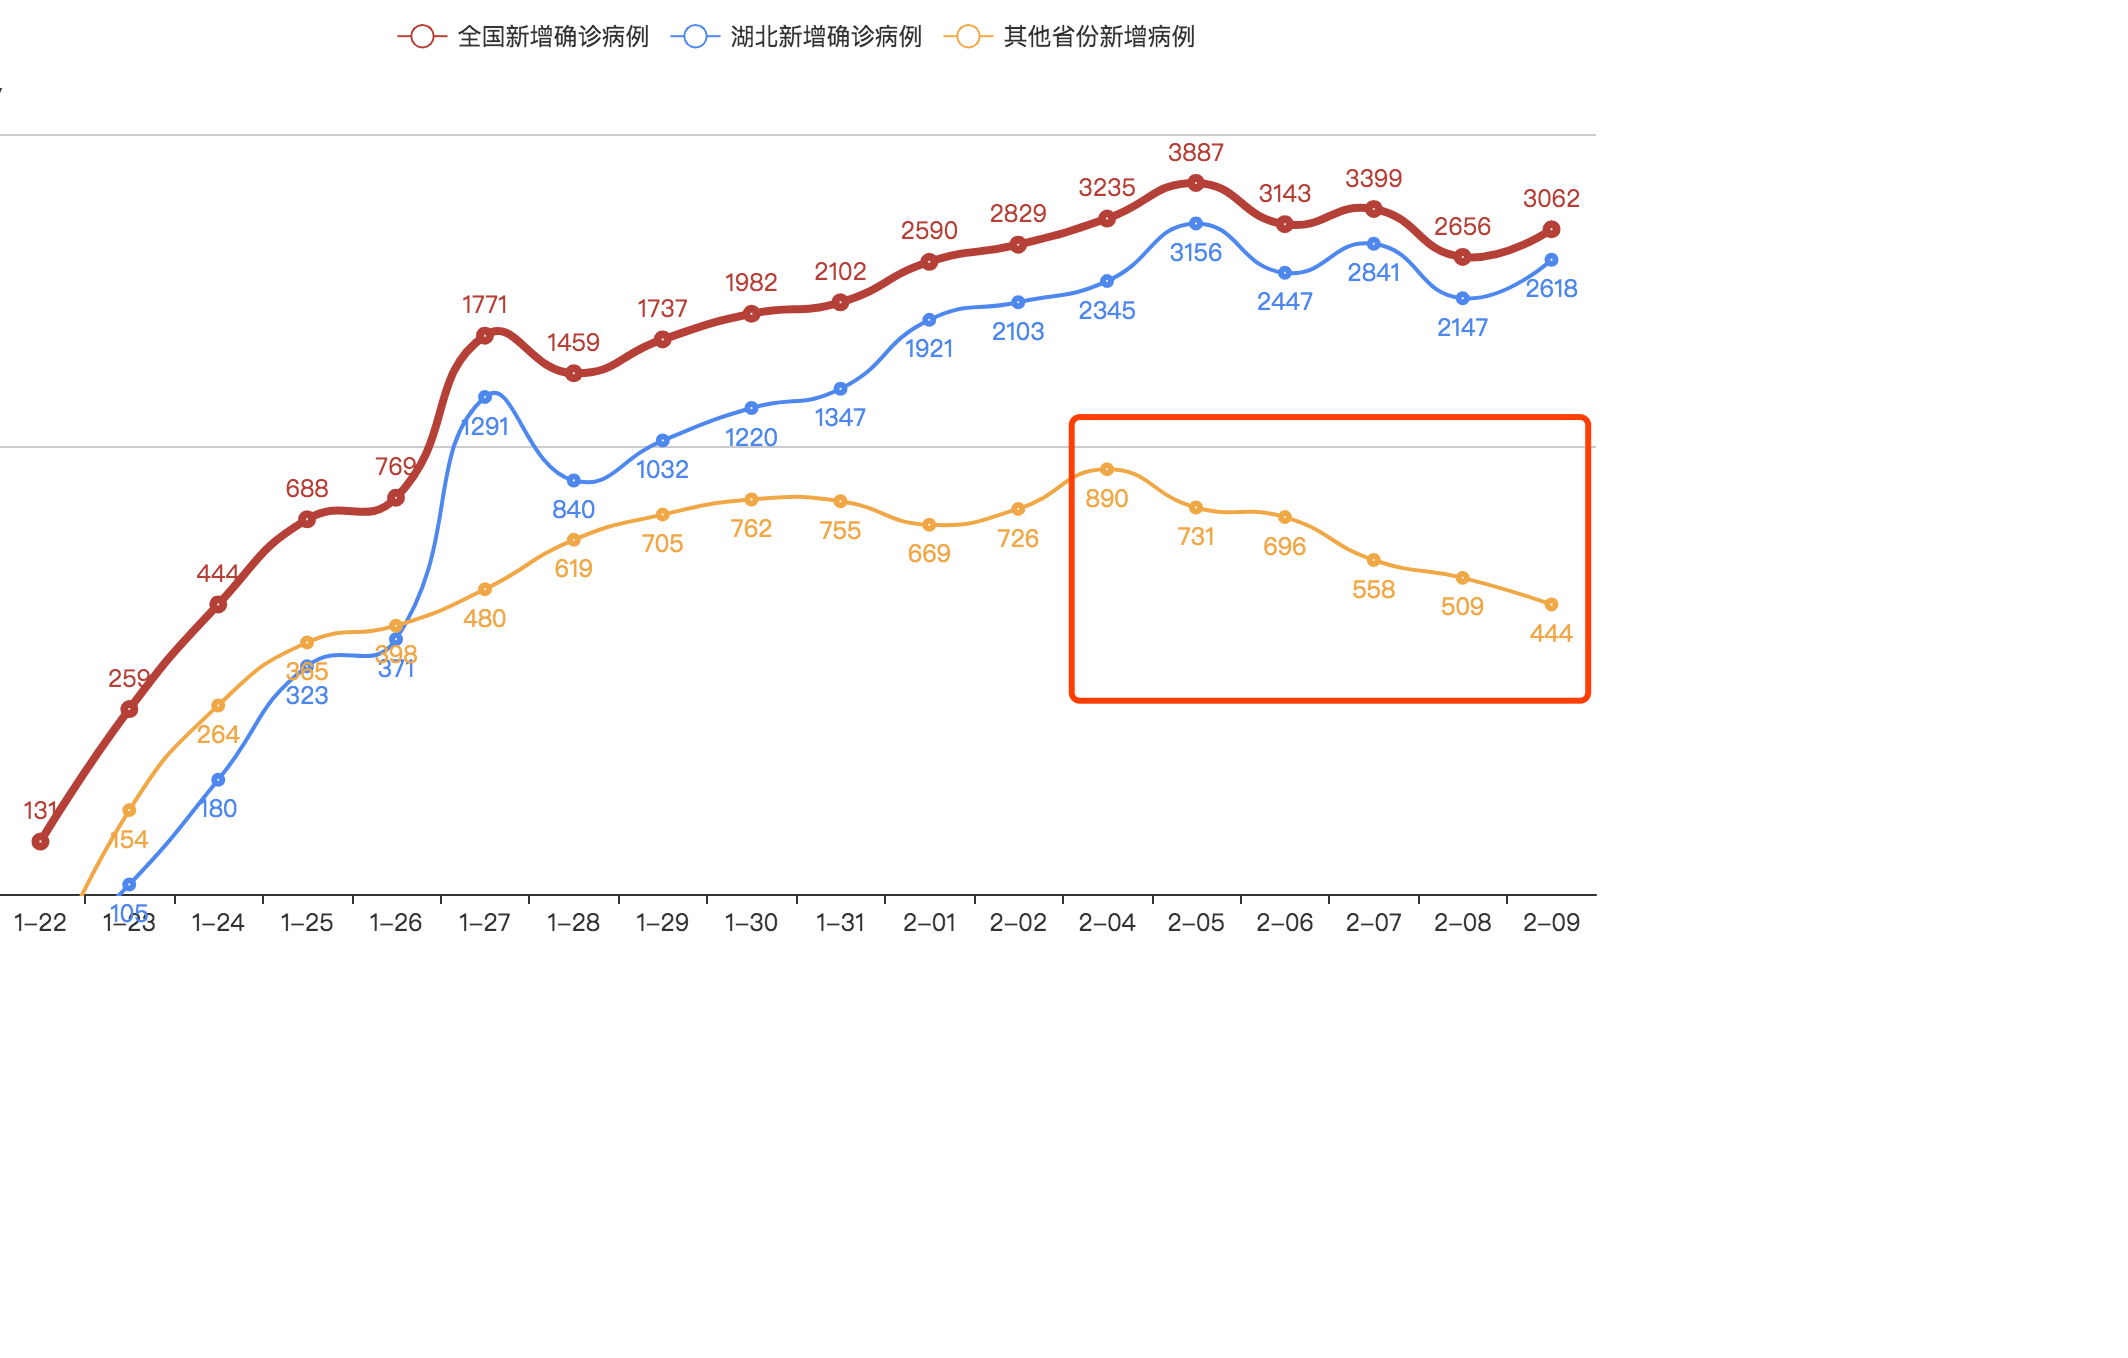
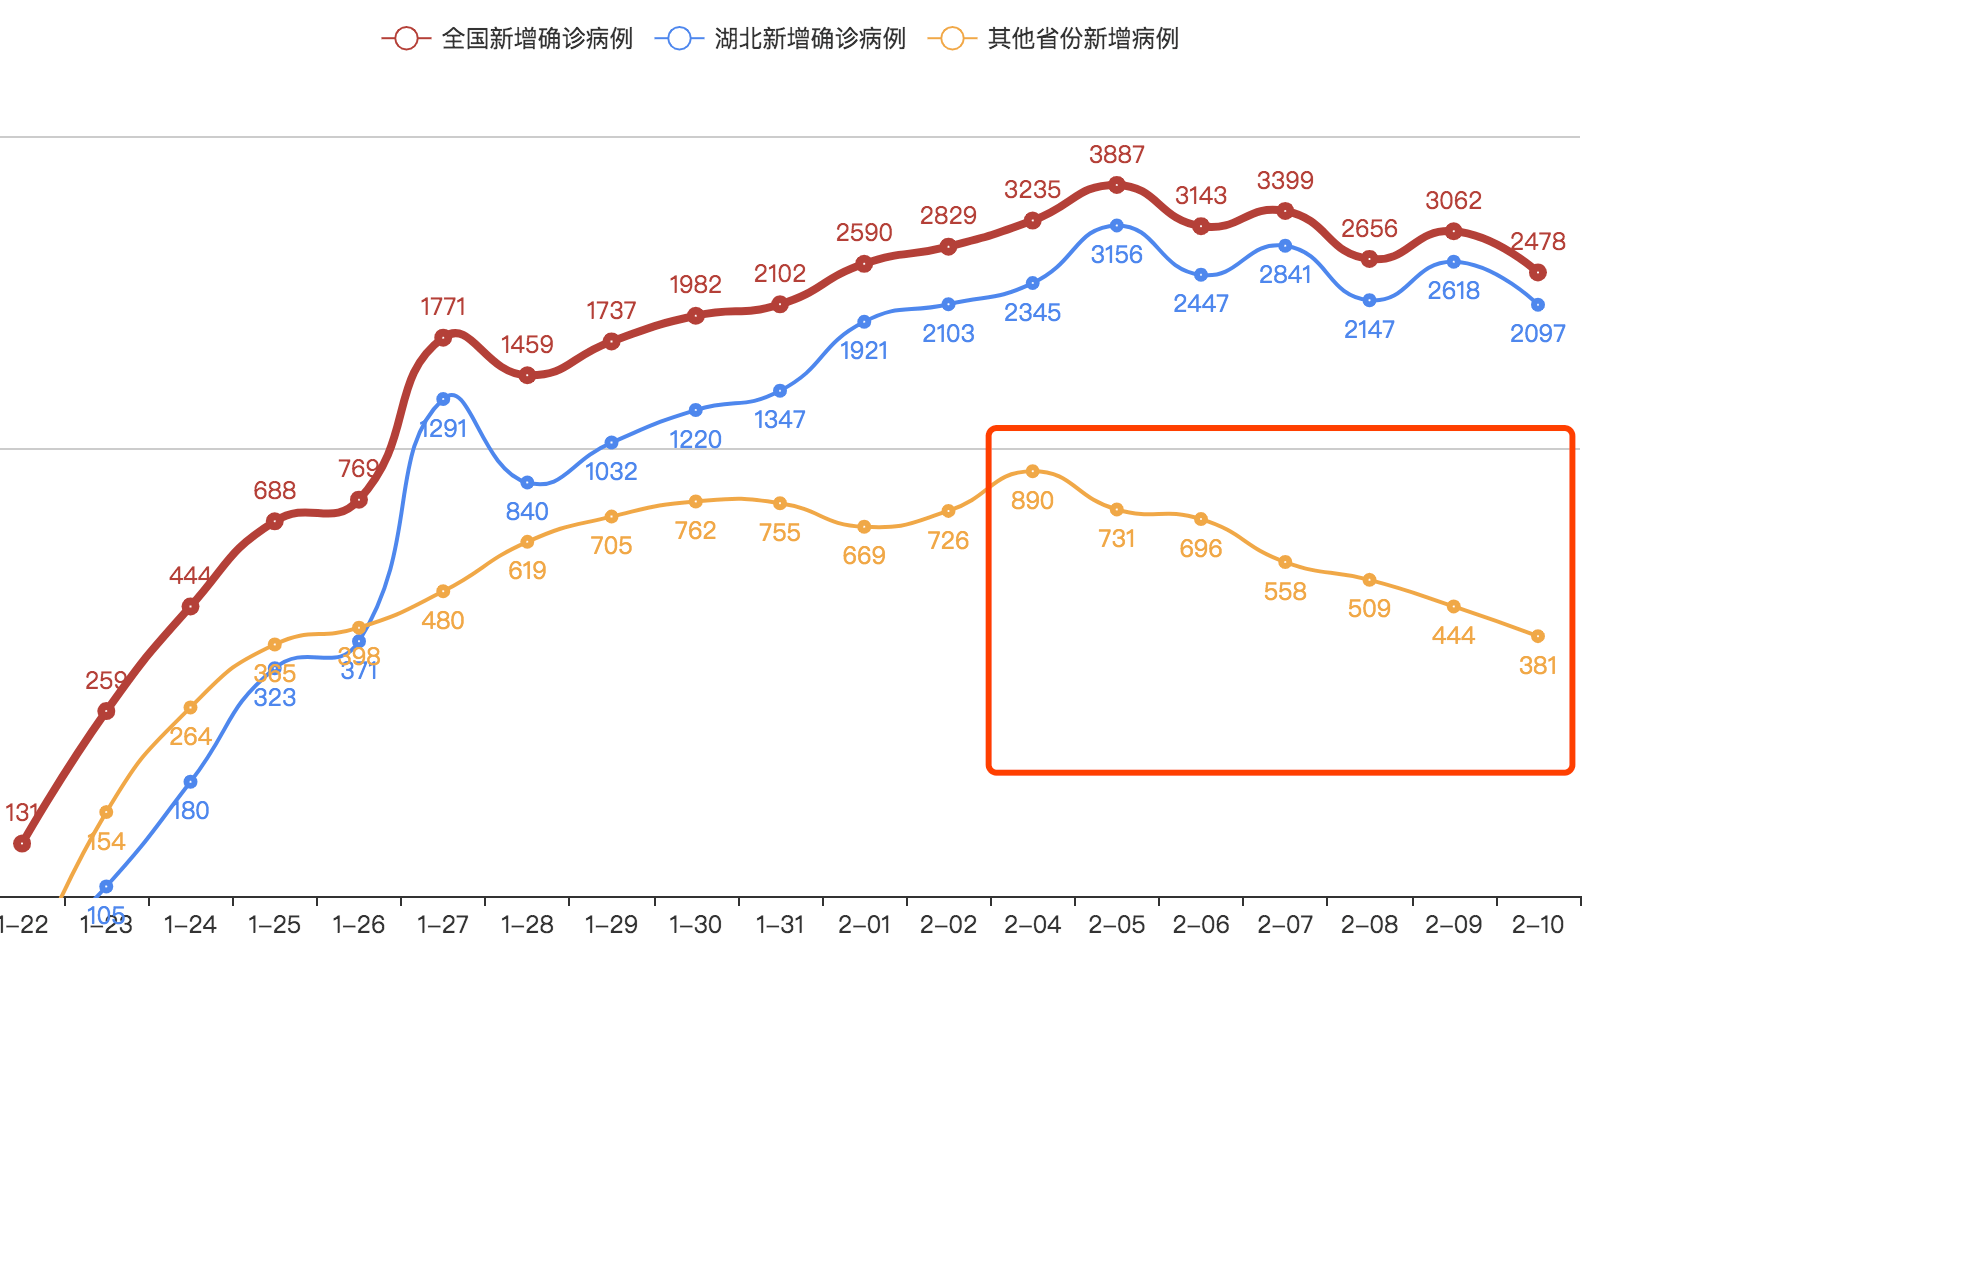
update result

Changed region(s): [[0.0, 0.0924, 0.8109, 0.7393], [0.1871, 0.0, 0.5926, 0.0616]]

diff --git a/main.py b/main.py
@@ -92,9 +92,9 @@ def get_html(month, day):
 
 def draw_tendency(month, day):
     dates = ['1-22', '1-23', '1-24', '1-25', '1-26', '1-27', '1-28',
-             '1-29', '1-30', '1-31', '2-01', '2-02', '2-04', '2-05', '2-06', '2-07', '2-08', '2-09']
-    v0 = [131, 259, 444, 688, 769, 1771, 1459, 1737, 1982, 2102, 2590, 2829, 3235, 3887, 3143, 3399, 2656, 3062]
-    v1 = [69, 105, 180, 323, 371, 1291, 840, 1032, 1220, 1347, 1921, 2103, 2345, 3156, 2447, 2841, 2147, 2618]
+             '1-29', '1-30', '1-31', '2-01', '2-02', '2-04', '2-05', '2-06', '2-07', '2-08', '2-09', '2-10']
+    v0 = [131, 259, 444, 688, 769, 1771, 1459, 1737, 1982, 2102, 2590, 2829, 3235, 3887, 3143, 3399, 2656, 3062, 2478]
+    v1 = [69, 105, 180, 323, 371, 1291, 840, 1032, 1220, 1347, 1921, 2103, 2345, 3156, 2447, 2841, 2147, 2618, 2097]
     v2 = [v0[i] - v1[i] for i in range(len(v0))]
 
     c = (
@@ -249,7 +249,7 @@ def draw_multiple_pie(month, day):
 
 
 if __name__ == '__main__':
-    m, d = 2, 10
+    m, d = 2, 11
     get_html(m, d)
     draw_tendency(m, d)
     draw_multiple_pie(m, d)

diff --git a/README.md b/README.md
@@ -14,6 +14,7 @@
 - 更新：2020.2.08 08:31 除湖北省外，其他省份的新增确诊已经连续四天在下降了。湖北加油！
 - 更新：2020.2.09 09:01 今天湖北省的新增确诊也明显下降了，其他省份也持续在降，开心啊
 - 更新：2020.2.10 08:33
+- 更新：2020.2.11 08:40
 
 # 全国/各省份疫情地图
 ![image](https://github.com/shadow12138/WuHanGanBaDei/blob/master/result/r1.png)
